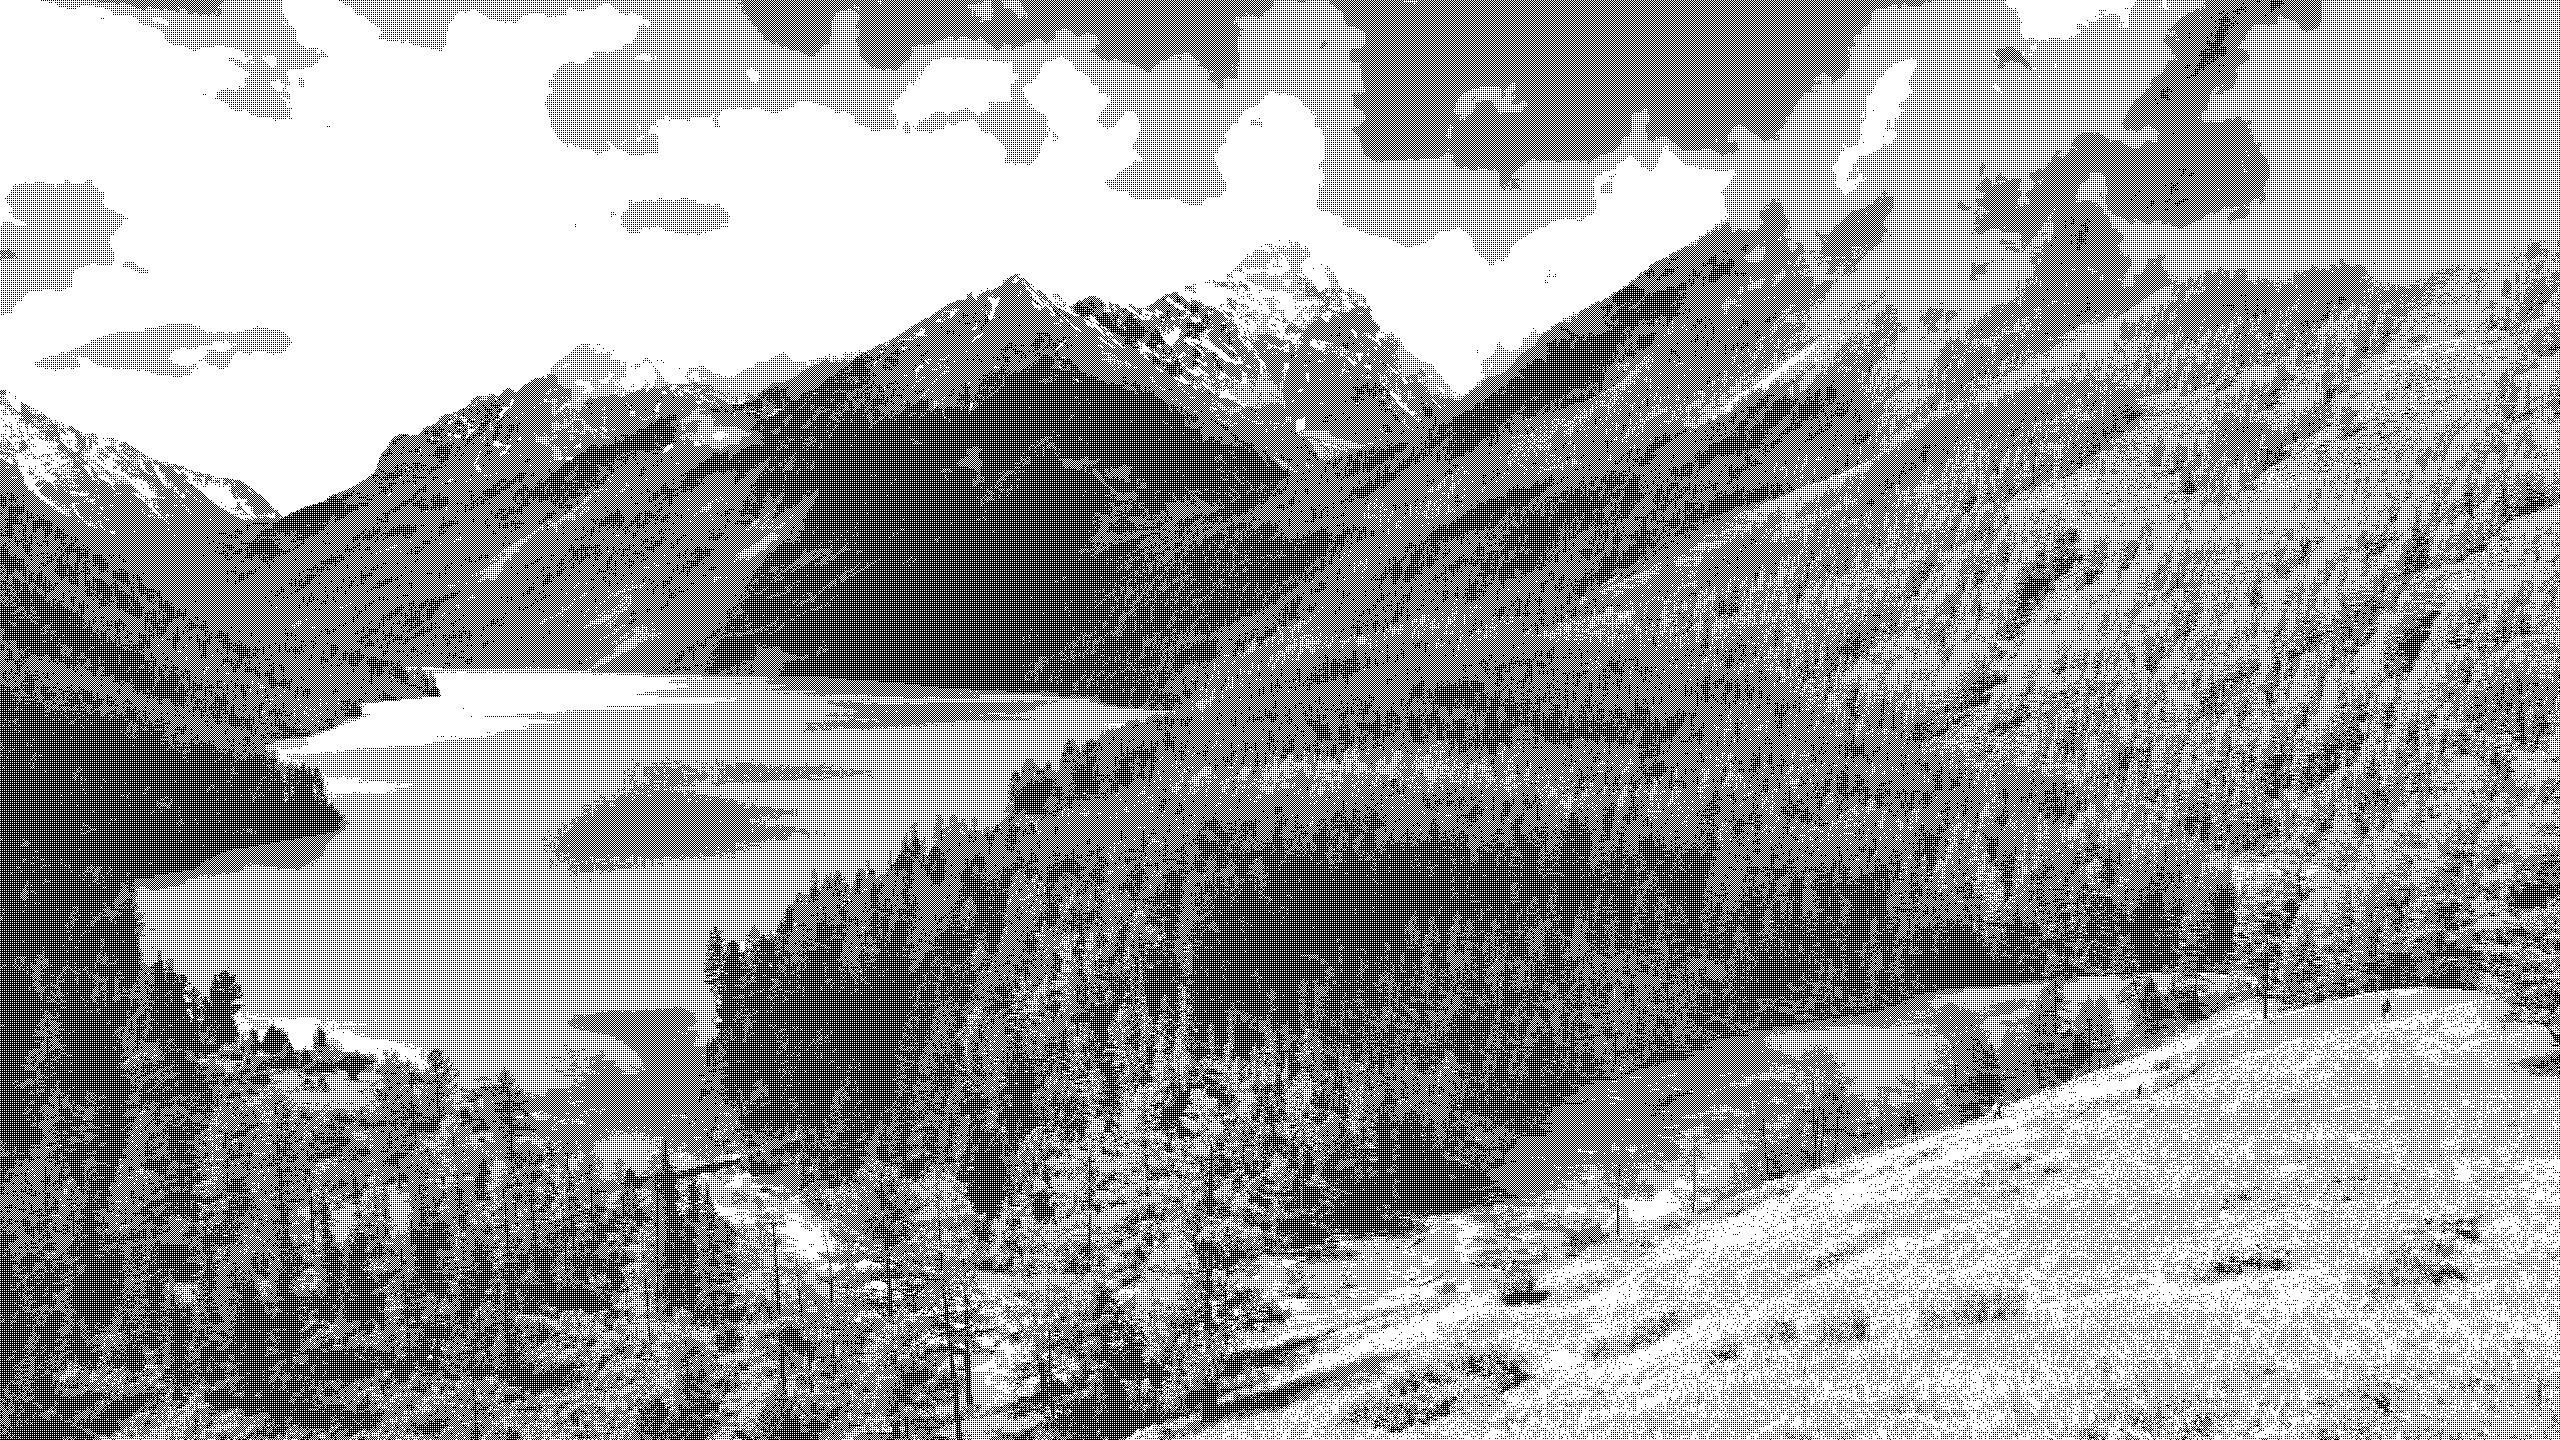
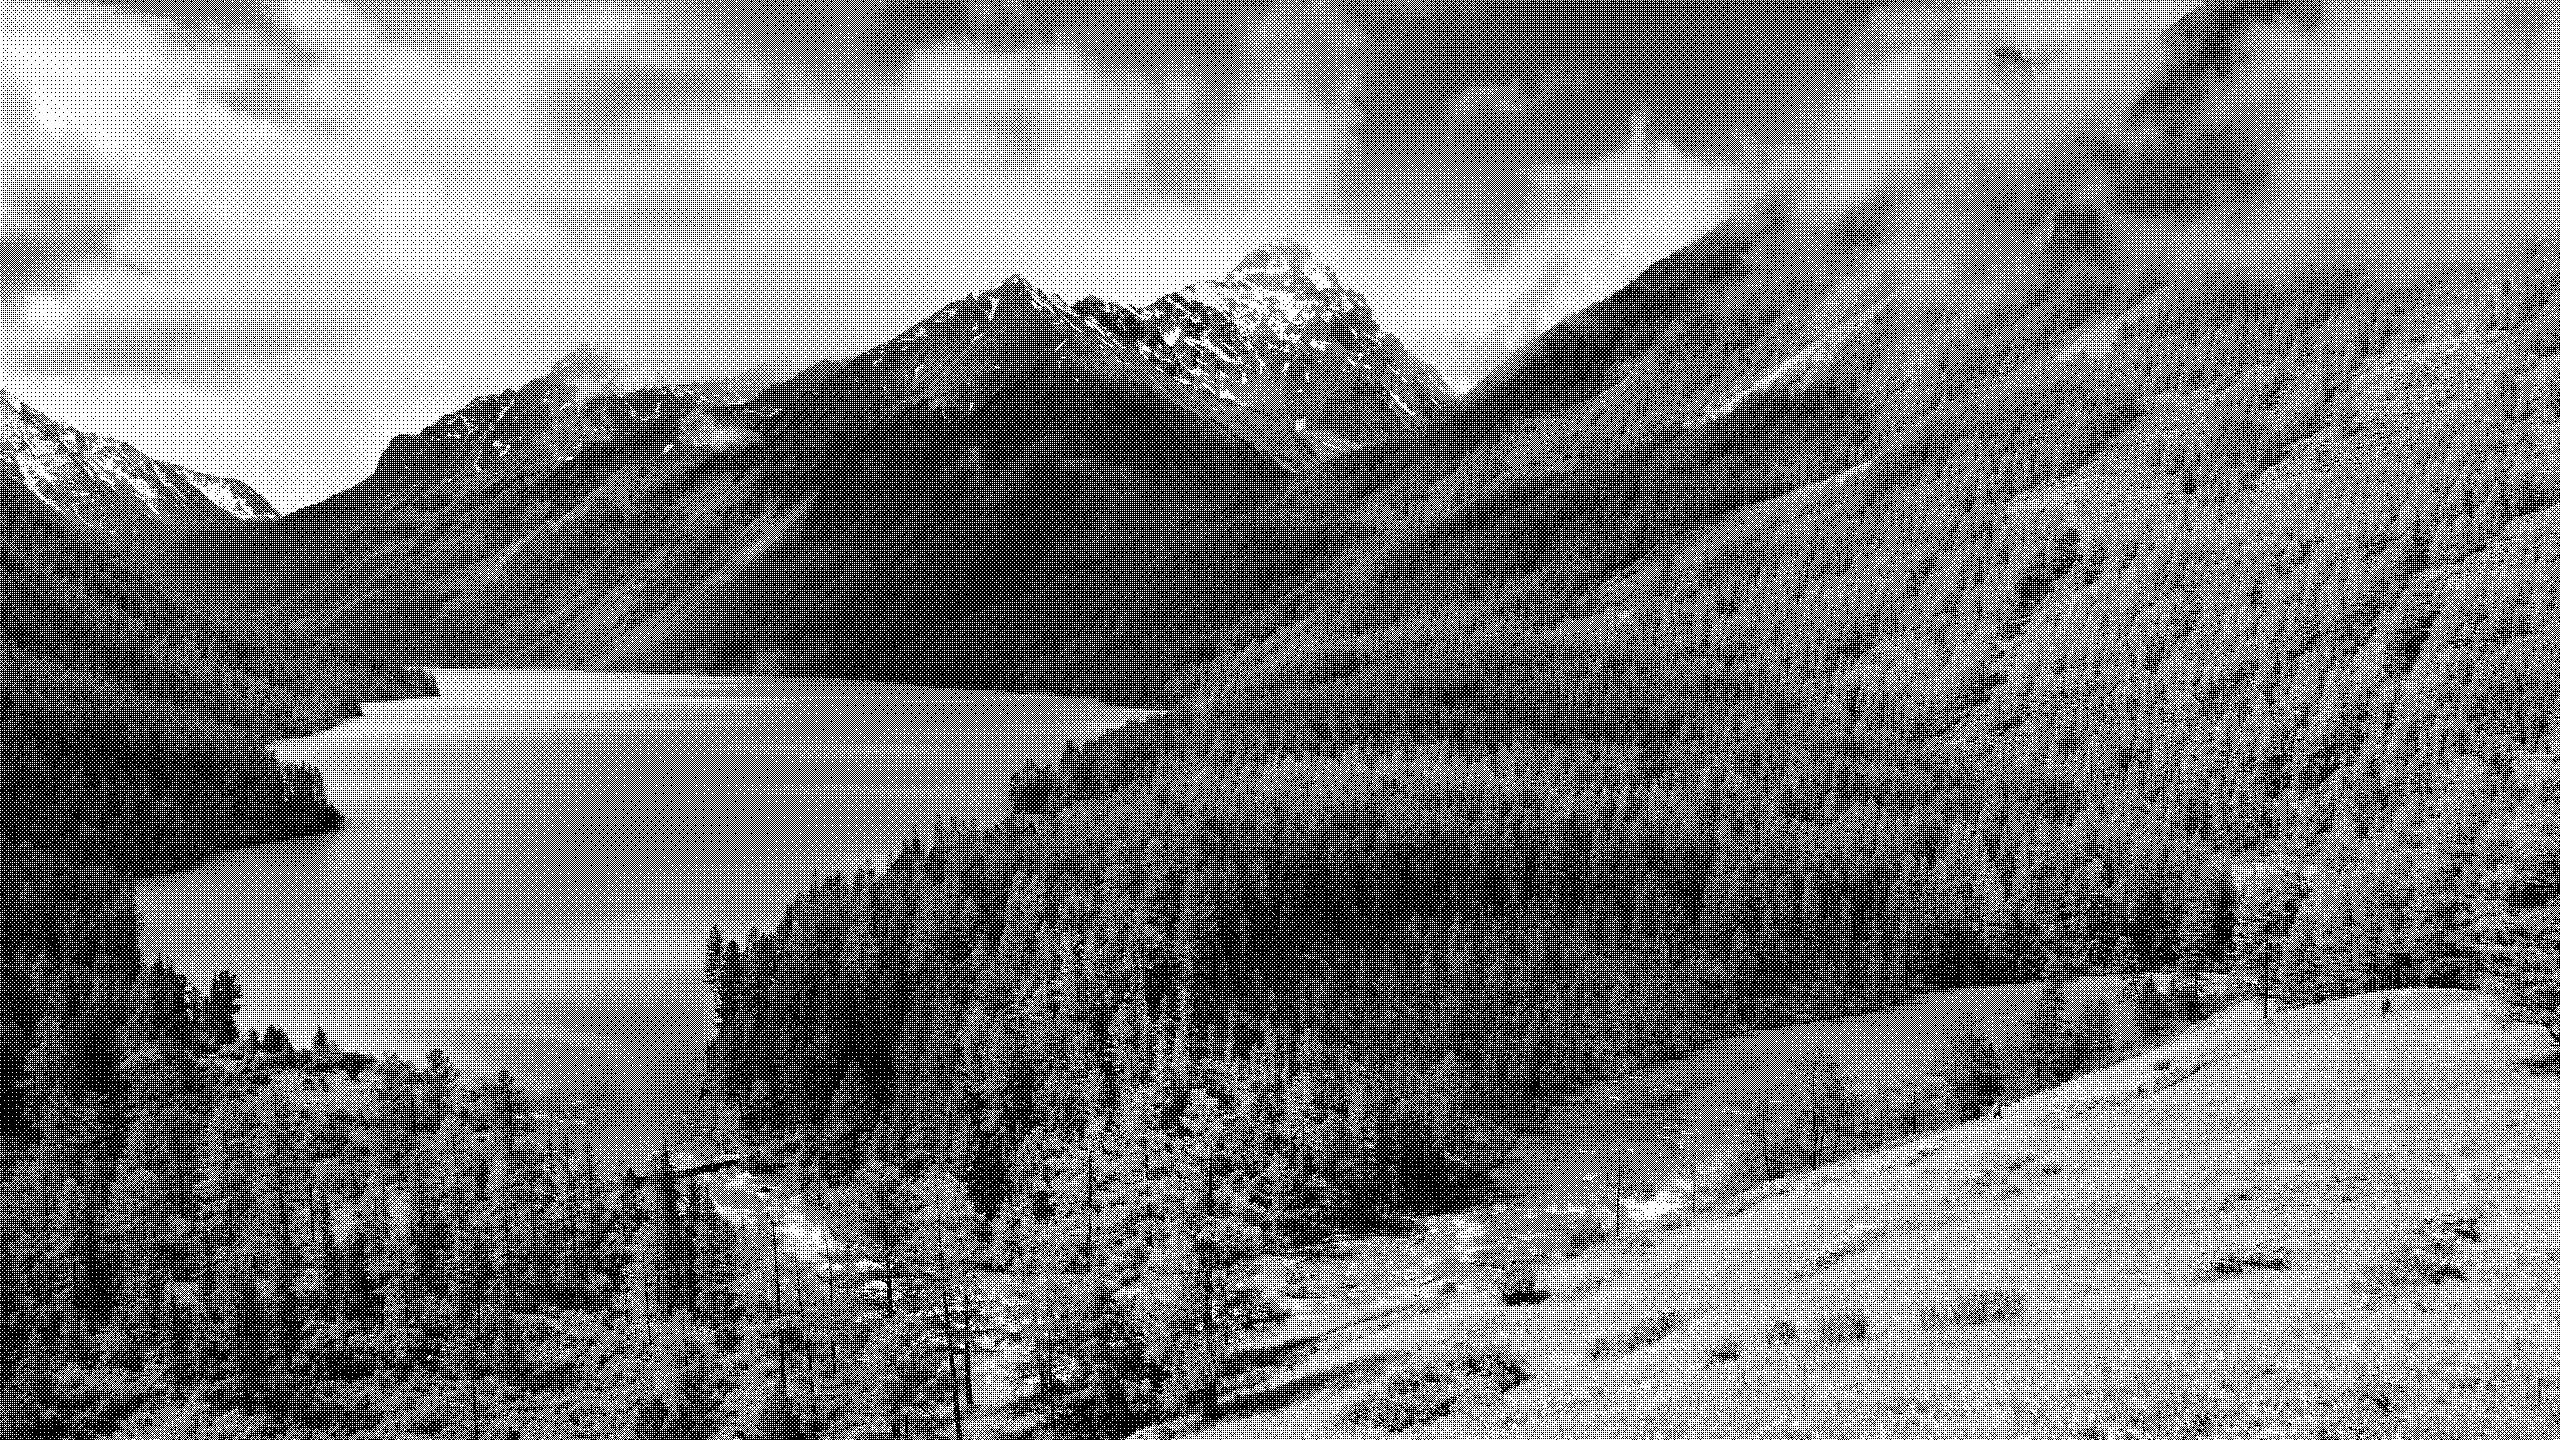
Add README

diff --git a/README.md b/README.md
@@ -1,0 +1,15 @@
+# Ordered Dithering
+
+One way of minimizing the size of an image is to simply reduce the number of bits you use to represent each pixel. by default this number is 24 bits for RGB representation. You can reduce this number by quantization and reduce it to **1 bit** (black or white).
+
+However this has its downside which is known as banding effect ([Wikipedia](https://en.wikipedia.org/wiki/Colour_banding)).
+Ordered dithering is a technique in which we try to minimize this effect by distributing errors ([Wikipedia](https://en.wikipedia.org/wiki/Ordered_dithering)). There are also some other techniques like floyd-steinberg algorithm wich works better but is slower than ordered dithering.
+
+As an example consider the following image:
+![Original image](./index.jpg)
+
+Now this is the gray scale version with size of **2.2M**:
+![Gray scale](./gray-scale.png)
+
+But we can reduce the size to **188k** with ordered dithering:
+![Dithered image](./dithered.png)
